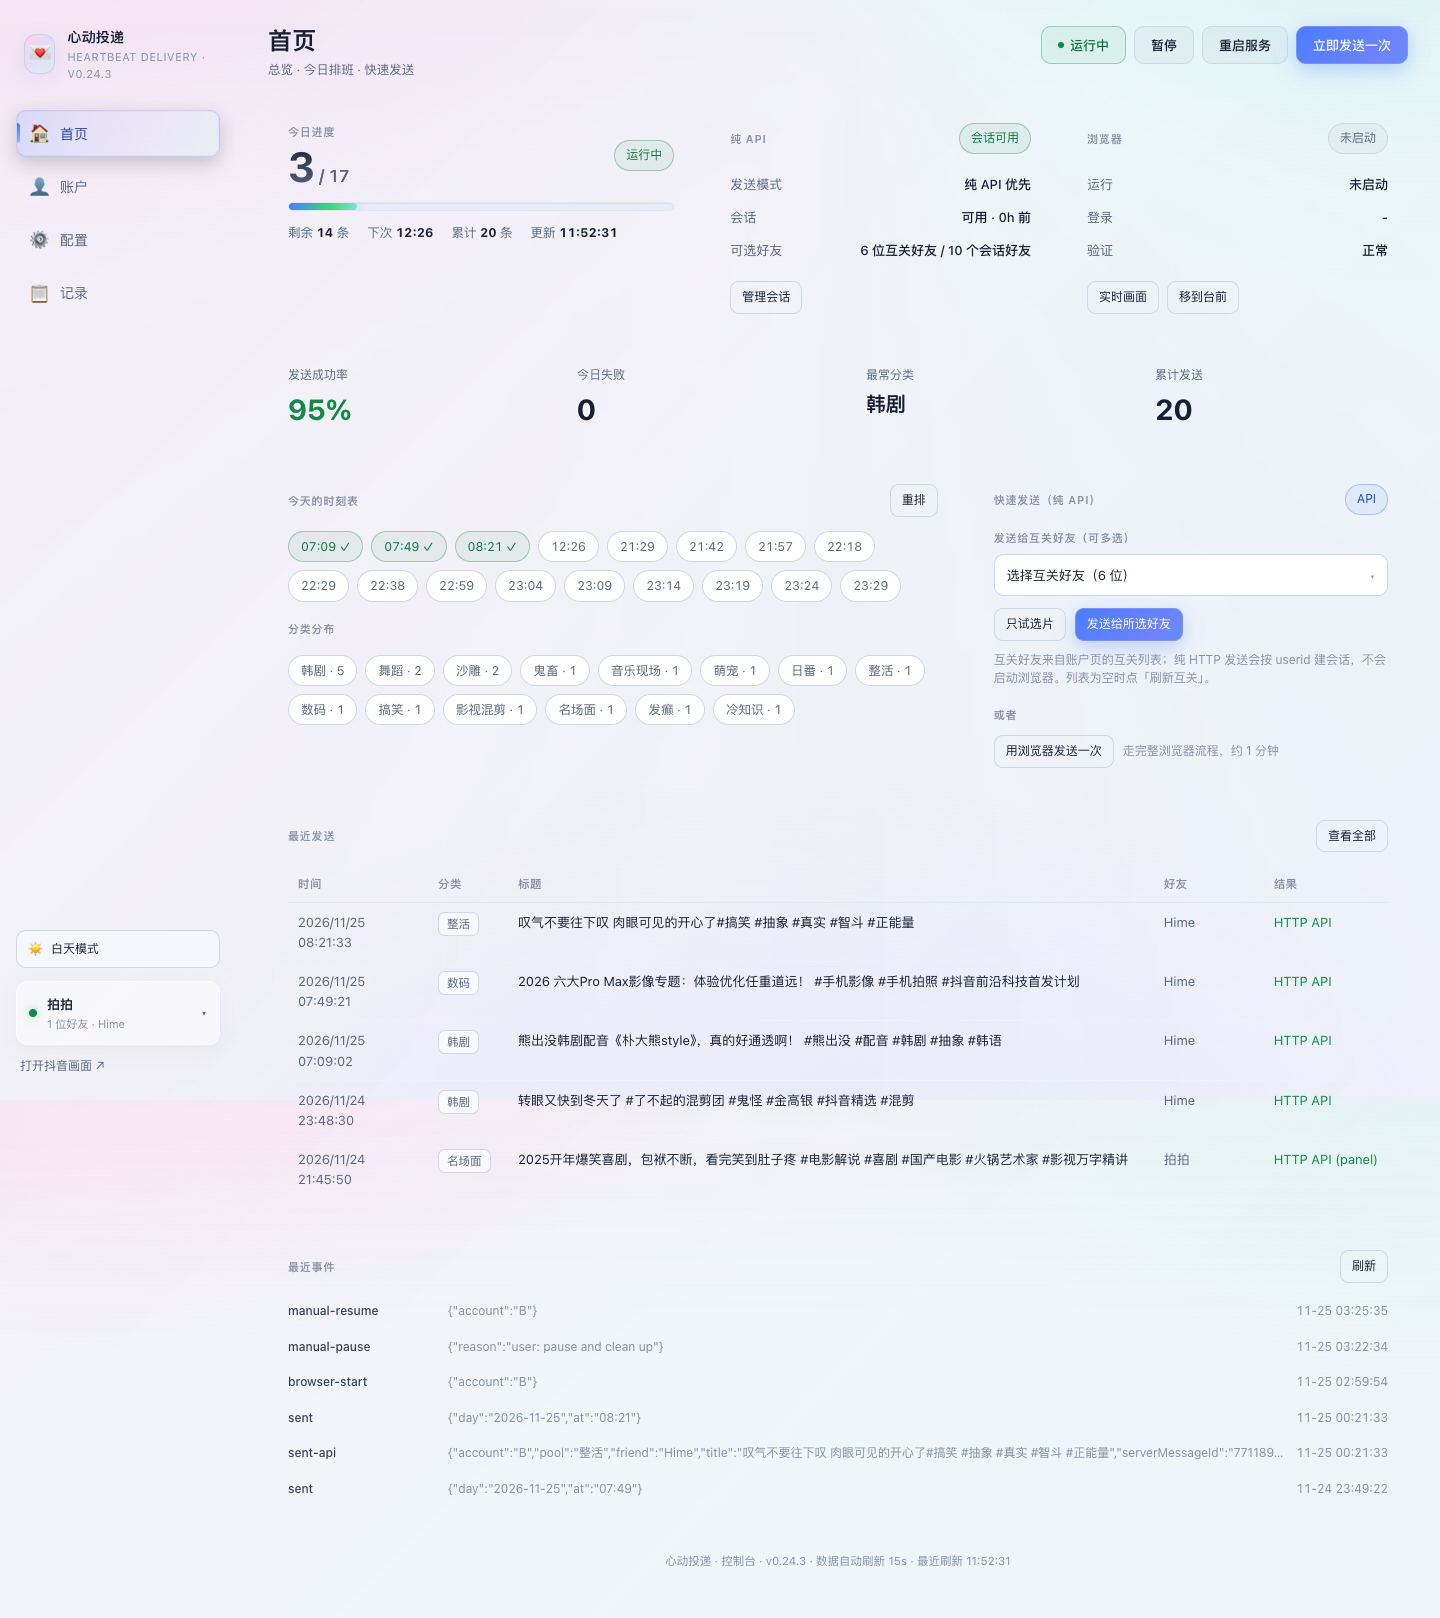
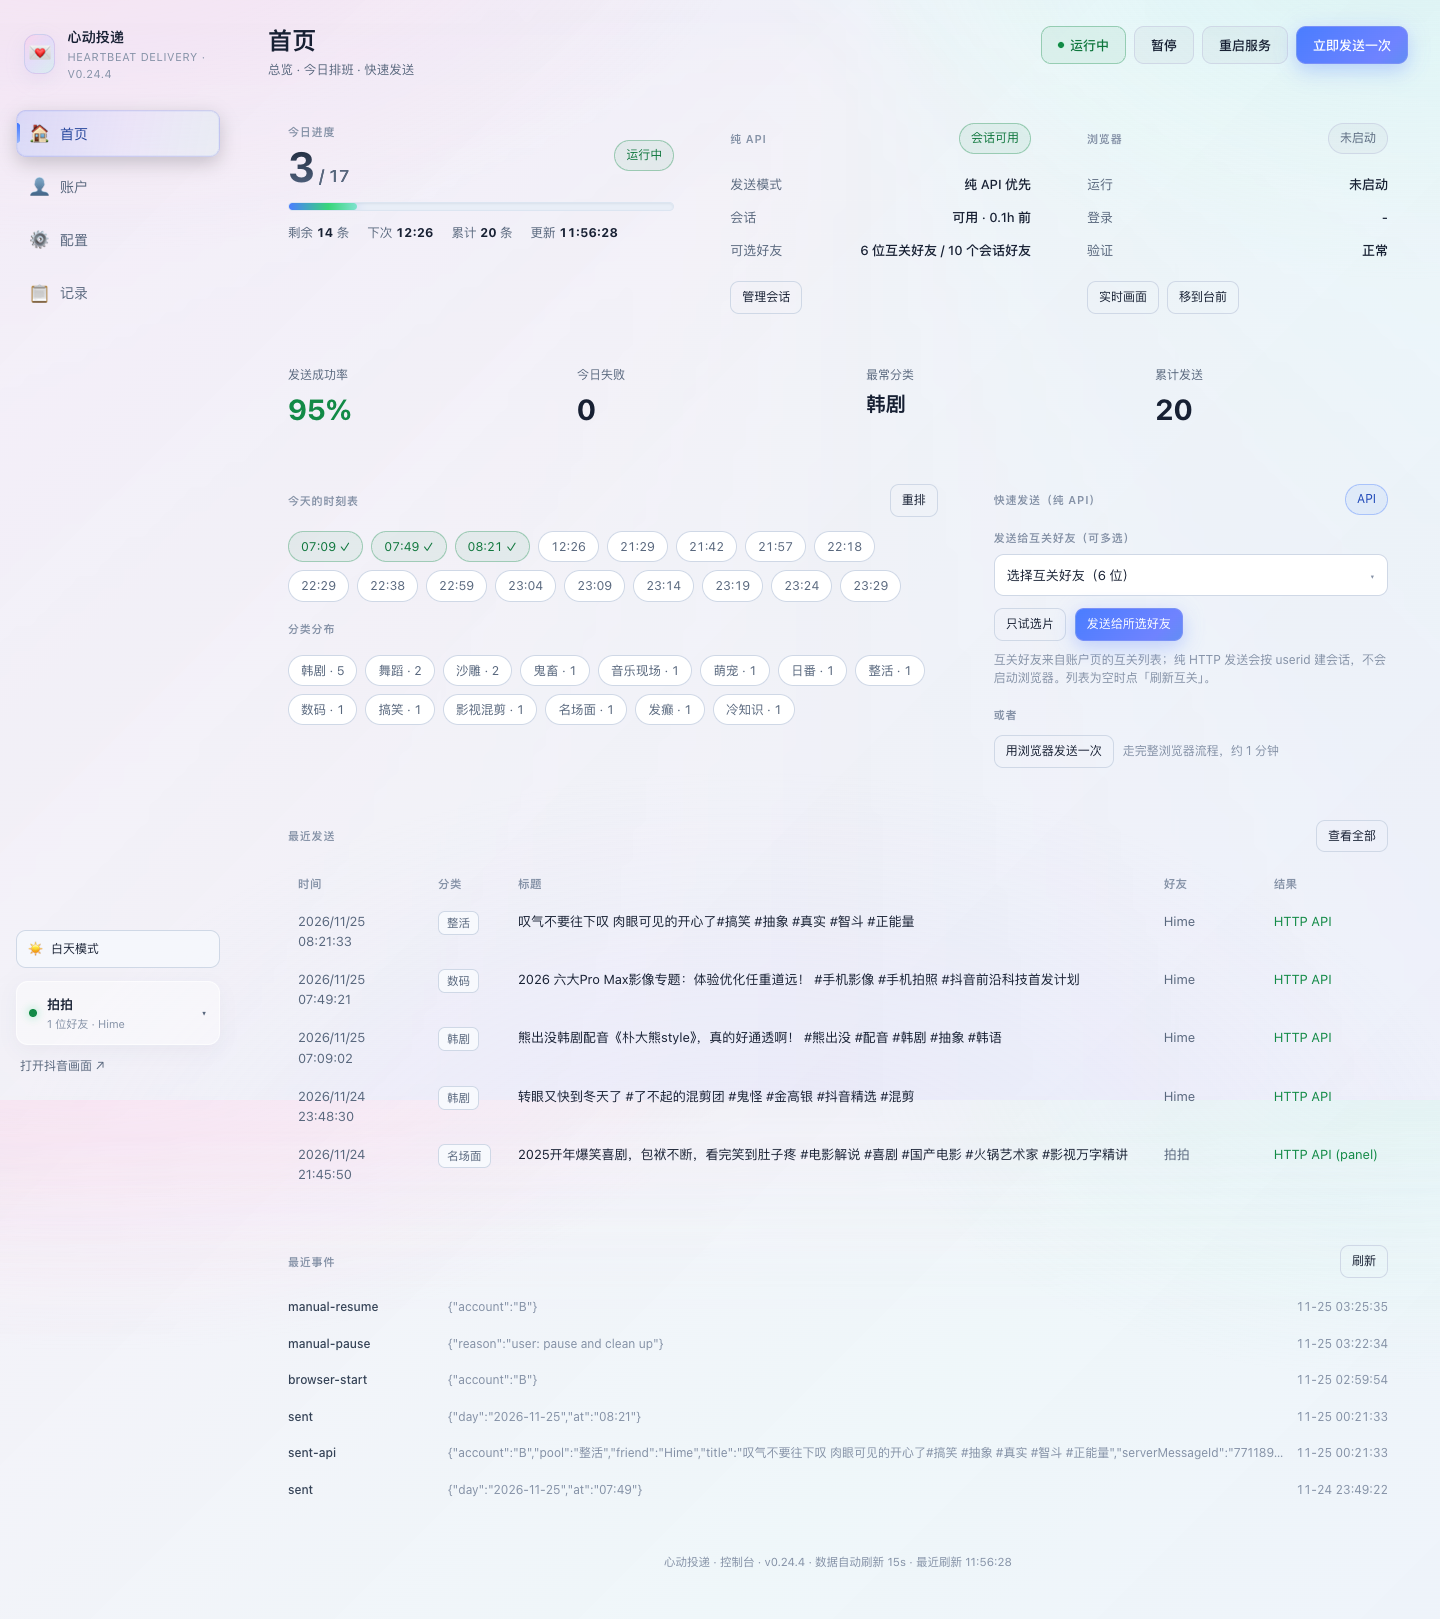
fix(ui): 移除表格横向分割线(0.24.4)

diff --git a/src/page.html b/src/page.html
@@ -164,8 +164,8 @@
   .table-wrap{overflow:auto;border-radius:0;border:0}
   table{width:100%;border-collapse:collapse;font-size:13px}
   th{text-align:left;color:var(--dim2);font-weight:600;font-size:11.5px;letter-spacing:.4px;text-transform:uppercase;
-    border-bottom:1px solid var(--line);padding:11px 12px;background:transparent;position:static}
-  td{border-bottom:1px solid rgba(255,255,255,.045);padding:11px 12px;vertical-align:top}
+    border-bottom:0;padding:11px 12px;background:transparent;position:static}
+  td{border-bottom:0;padding:11px 12px;vertical-align:top}
   tr:last-child td{border-bottom:0}
   tbody tr:hover td{background:rgba(91,140,255,.04)}
   .title-cell{max-width:520px;overflow:hidden;text-overflow:ellipsis;white-space:nowrap}
@@ -296,7 +296,7 @@
   summary{cursor:pointer;padding:12px 0;font-size:13px;font-weight:600;color:var(--dim);outline:none}
   summary:hover{color:var(--txt)}
   .events-mini{display:flex;flex-direction:column;gap:6px;font-size:12px;color:var(--dim);max-height:220px;overflow:auto}
-  .events-mini .ev{display:flex;gap:10px;padding:5px 0;border-bottom:1px dashed rgba(255,255,255,.05)}
+  .events-mini .ev{display:flex;gap:10px;padding:6px 0}
   .events-mini .ev b{color:#cbd6e6;font-weight:500;flex:0 0 150px;overflow:hidden;text-overflow:ellipsis;white-space:nowrap}
   .events-mini .ev span{flex:1;color:var(--dim2);overflow:hidden;text-overflow:ellipsis;white-space:nowrap}
   .events-mini .ev time{color:var(--dim2);flex:0 0 92px;text-align:right;font-variant-numeric:tabular-nums}
@@ -472,7 +472,6 @@
 
   html[data-theme="light"] .table-wrap{background:transparent;border-color:transparent}
   html[data-theme="light"] th{background:transparent;border-bottom-color:var(--line);color:var(--dim2)}
-  html[data-theme="light"] td{border-bottom-color:#eef2f8}
   html[data-theme="light"] tbody tr:hover td{background:rgba(47,107,255,.045)}
   html[data-theme="light"] .account-row{background:rgba(255,255,255,.12);border-color:var(--line)}
   html[data-theme="light"] .account-row.active{background:rgba(47,107,255,.075);border-color:rgba(47,107,255,.28)}

diff --git a/CHANGELOG.md b/CHANGELOG.md
@@ -1,5 +1,12 @@
 # Changelog
 
+## 0.24.4 — 2026-11-25
+
+- **移除表格/事件列表的横向分隔线**:滚动到「最近发送」或记录页时，不再出现横跨内容区的表头线/行线；
+  表格只靠列间距和留白区分。首页最近事件也去掉虚线分隔。
+- 这是滚动一页后出现横线的主要来源；卡片/顶栏/侧栏保持 0.24.3 的无边界贝母底。
+
+
 ## 0.24.3 — 2026-11-25
 
 - **彻底取消卡片容器外观**:移除卡片的填充、边框、圆角和阴影，卡片只作为布局容器；

diff --git a/docs/optimization-plan.md b/docs/optimization-plan.md
@@ -362,6 +362,7 @@ CI 只跑 5 个旧测试文件，新增的 `friend-picker`、`video-picker`、`p
 - 头部玻璃条、卡片与背景贝母色贯通、移动端两行导航（0.24.1）。
 - 去掉卡片填充/滚动色块，贝母色直接穿过卡片（0.24.2）。
 - 卡片完全无边框/阴影，顶栏改为普通页头，彻底消除滚动分割（0.24.3）。
+- 去掉表格/事件列表横线，消除滚动一页后的表头分割线（0.24.4）。
 
 以下建议明确**不采用**：
 
